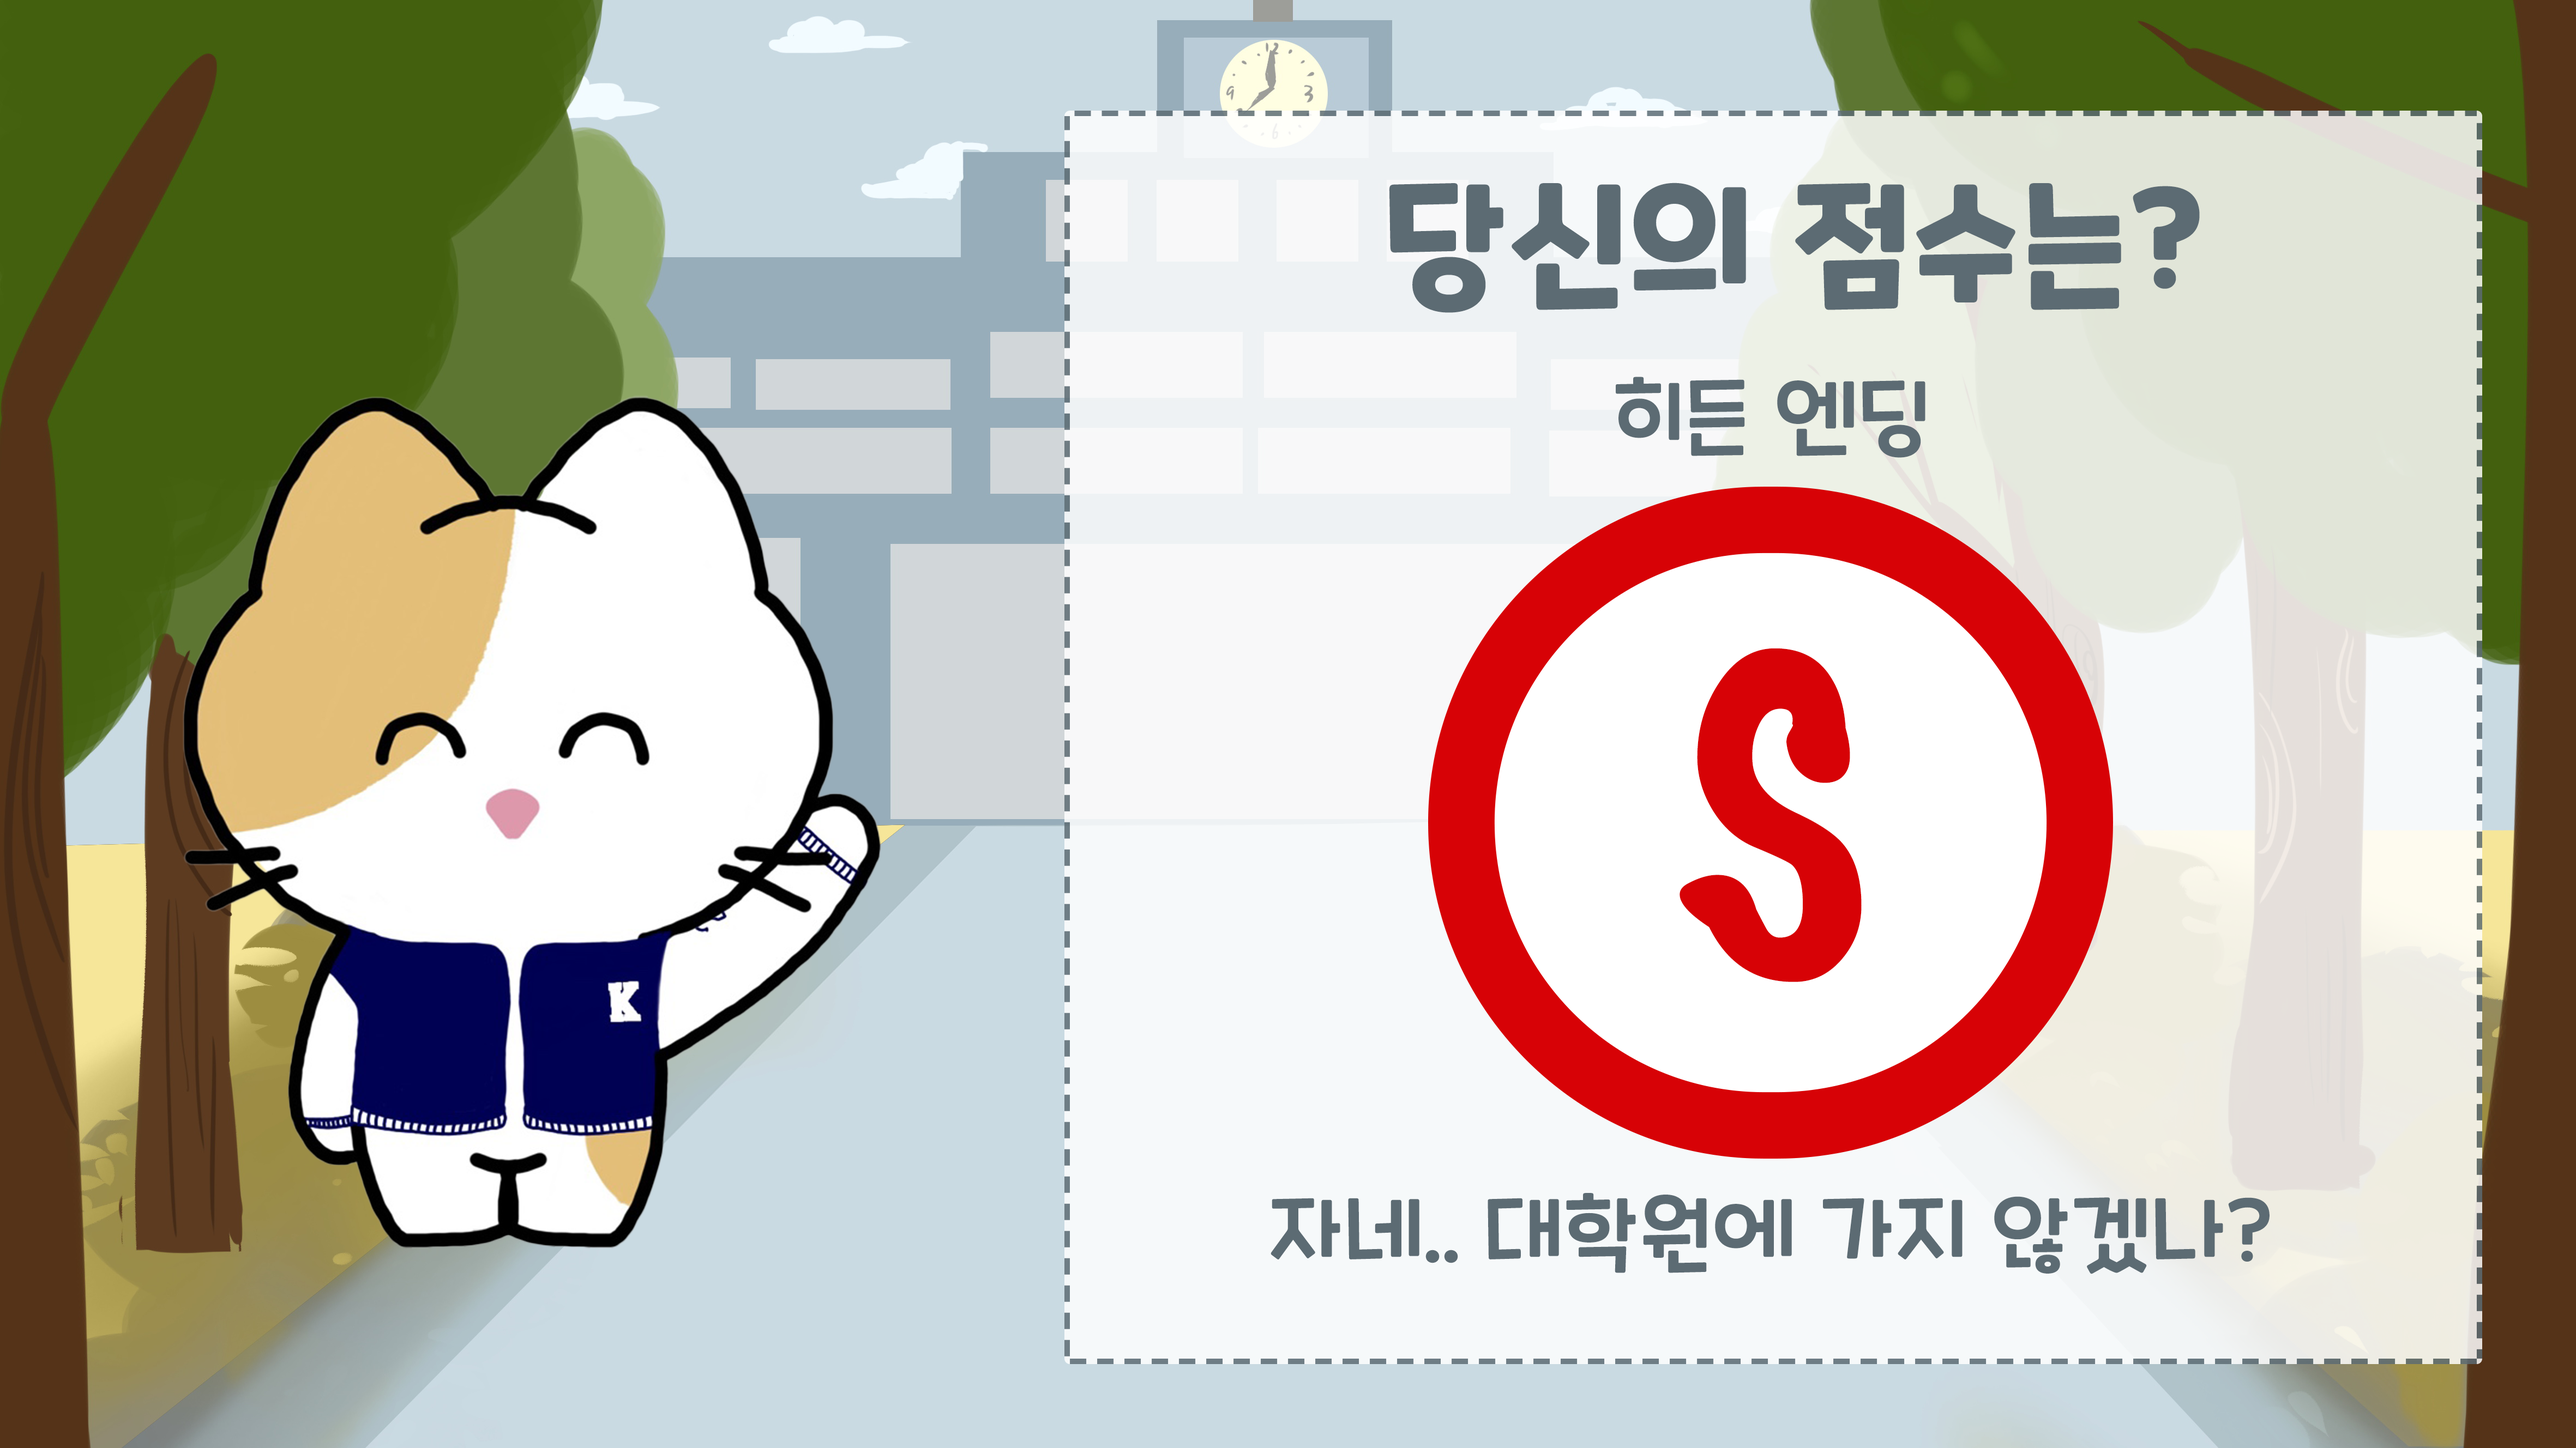
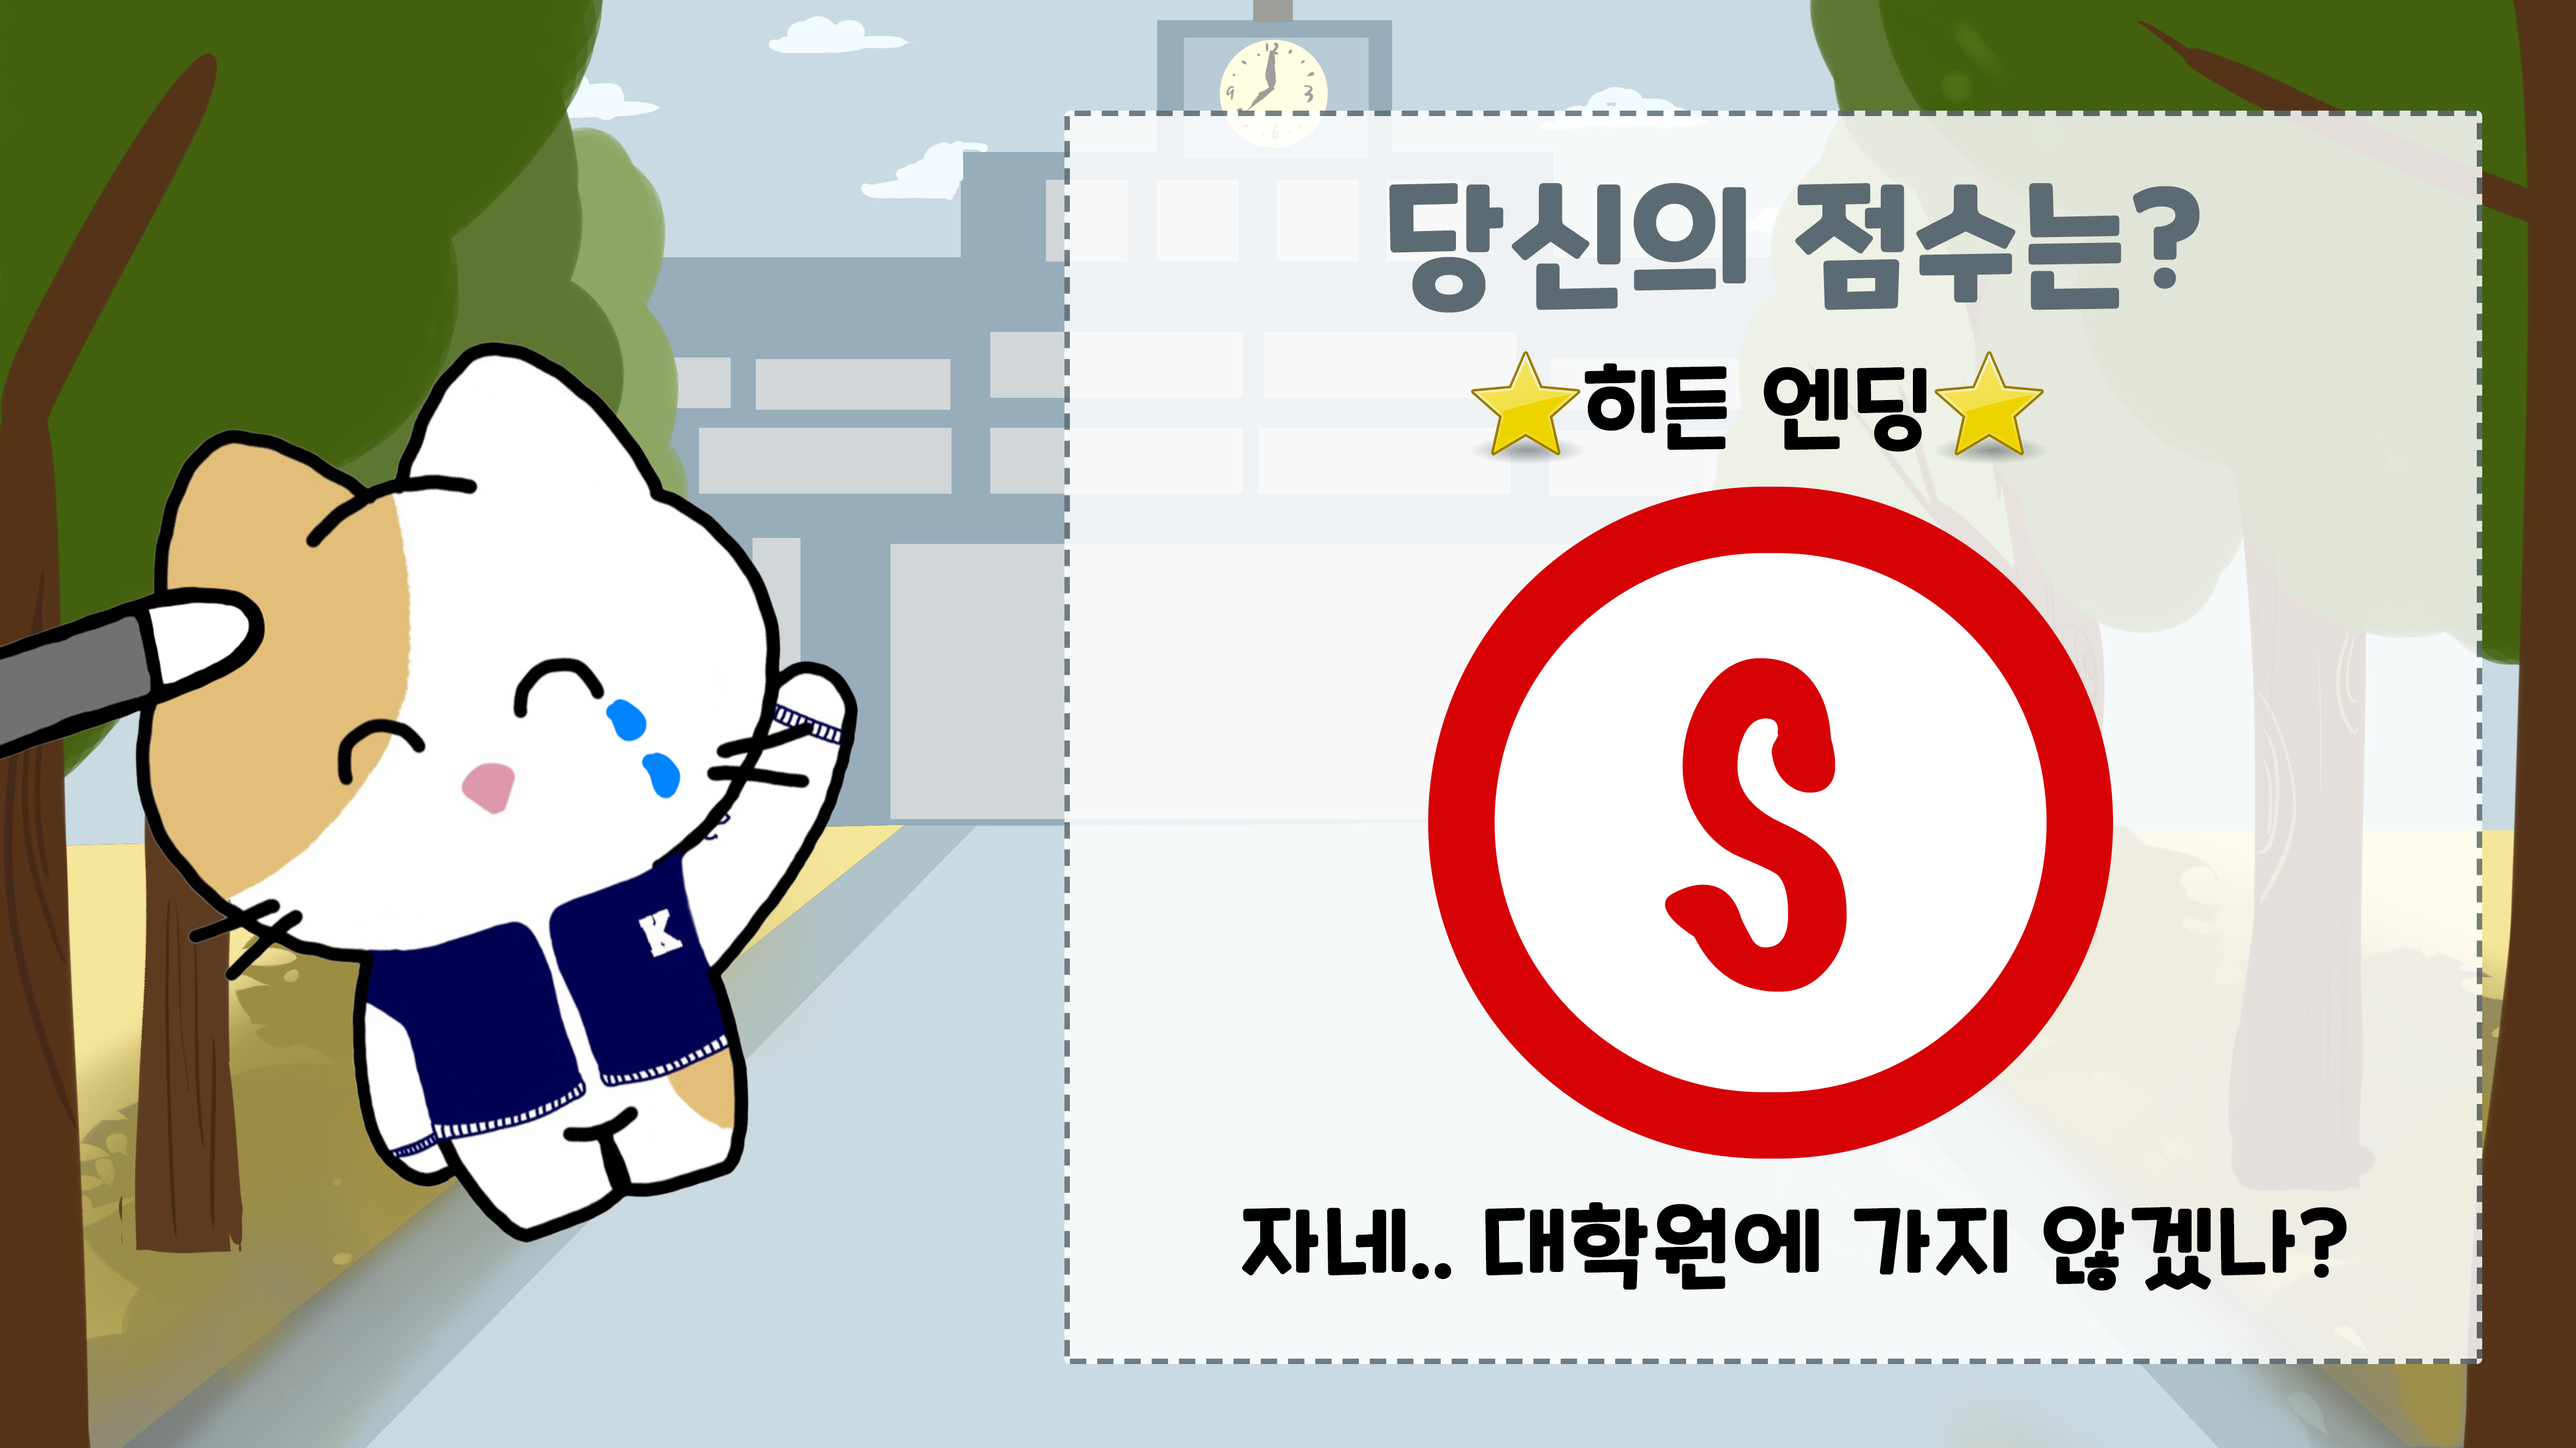
modified:   campus_rush.py 	modified:   graphic/retrybutton.png 	modified:   "graphic/s\354\265\234\354\242\205.png" 	new file:   test.py

diff --git a/campus_rush.py b/campus_rush.py
@@ -92,6 +92,60 @@ def main():
 back_button.on_click = main
 explain_button.on_click = explain
 
+
+# ---------------------------
+# 엔딩 화면 설정
+# ---------------------------
+
+game_running = False
+
+# 엔딩화면
+ending_screen = Entity(
+    model='quad',
+    texture='graphic/s최종.png',
+    scale=(14.6, 8.2),
+    enabled=False
+)
+
+# 엔딩bgm
+end_bgm = Audio('bgm/엔딩.mp3', volume=0, pitch=1, loop=True, autoplay=True, auto_destroy=True)
+hidden_end_bgm = Audio('bgm/히든엔딩.mp3', volume=0, pitch=1, loop=True, autoplay=True, auto_destroy=True)
+f_end_bgm = Audio('bgm/f..mp3', volume=0, pitch=1, loop=True, autoplay=True, auto_destroy=True)
+
+# 다시하기 버튼
+retry_button = Button(
+    model='quad',
+    texture='graphic/retrybutton.png',
+    scale=(0.22, 0.07),
+    position=(-0.7, -0.42),
+    color=color.white,
+    highlight_color=color.gray,
+    pressed_color=color.white,
+    enable = False
+)
+# 엔딩함수
+def ending():
+    global game_running
+    game_running = False
+
+    # 블록, 아이템 제거
+    for block in blocks:
+        destroy(block)
+    blocks.clear()
+
+    for item in items:
+        destroy(item)
+    items.clear()
+
+    #엔딩화면
+    game_bgm.volume = 0
+    background.disable()
+    player.enabled = False
+    ending_screen.enable()
+    end_bgm.volume = 0.5
+    game_bgm.volume = 0
+    retry_button.enable = True
+
 # ---------------------------
 # 게임 화면 설정
 # ---------------------------
@@ -204,8 +258,10 @@ block_types = [
 blocks = []
 
 def spawn_block():
+    if not game_running:  # 게임이 진행 중이 아니면 함수 실행 중단
+        return
 
-    if score <= 100:
+    elif score <= 100:
         block_type = block_types[0]
 
     elif score > 100 and score <= 250:
@@ -227,22 +283,24 @@ def spawn_block():
 
 # 게임 난이도
 def level (block):
-    if score <=100 :
+    if score <=100 :    #F
         block.z -= 0.3
+        if health == 0:
+            ending()
 
-    elif score > 100 and score <= 250:
+    elif score > 100 and score <= 250:   #D
         block.z -= 0.4
 
-    elif score > 250 and score <= 450:
+    elif score > 250 and score <= 450:   #C+
         block.z -= 0.5
     
-    elif score > 450 and score <= 700:
+    elif score > 450 and score <= 700:   #B+
         block.z -= 0.6
 
-    elif score > 700 and score <= 999:
+    elif score > 700 and score <= 999:   #A
         block.z -= 0.7
 
-    elif score > 999:
+    elif score > 999:    #A+
         block.z -= 1
 
 # 아이템 종류
@@ -255,7 +313,10 @@ item_types = [
 # 아이템 리스트 생성
 items = []
 def spawn_item():
-    if score <= 250:
+    if not game_running:  # 게임이 진행 중이 아니면 함수 실행 중단
+        return
+    
+    elif score <= 250:
         item_type = item_types[random.randrange(0,2)]
         delay = 5
 
@@ -357,6 +418,8 @@ def start_game():
         hearts[i].enabled = True
 
     # 장애물, 아이템 생성
+    global game_running
+    game_running = True
     spawn_block()
     spawn_item()
 

diff --git a/test.py b/test.py
@@ -1,0 +1,27 @@
+from ursina import *
+import random
+
+app = Ursina()
+
+# 엔딩화면
+ending_screen = Entity(
+    model='quad',
+    texture='graphic/s최종.png',
+    scale=(14.6, 8.2)
+)
+
+# 엔딩bgm
+end_bgm = Audio('bgm/엔딩.mp3', volume=1, pitch=1, loop=True, autoplay=True, auto_destroy=True)
+
+# 다시하기 버튼
+retry_button = Button(
+    model='quad',
+    texture='graphic/retrybutton.png',
+    scale=(0.22, 0.07),
+    position=(-0.7, -0.42),
+    color=color.white,
+    highlight_color=color.gray,
+    pressed_color=color.white
+)
+
+app.run()
